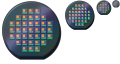
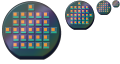
CALC-ICONES-A : corrections de la critique independante (verdict PRESQUE)
Laser refait autour du cristal (prisme hexagonal cyan a 3 facettes, emetteur court) :
il ne se lit plus comme une seringue. SRAM : cache pose en retrait sur la base, avec
ombre portee et vias d'or (il debordait). Tranche : puces plus grandes, lisibles a
32 px. Radiateur : plus haut, degrade et brossage sur les ailettes. Resine plus ambre,
halo de l'helium-3 resserre. --check 10 icones 0 ecart ; harnais 0 violation.
Critique : fo-logs/2026-10-30_DESIGN-CALCUL/CALC-ICONES-A/CRITIQUE.md

diff --git a/tools/render/pieces/calcul/dessins.py b/tools/render/pieces/calcul/dessins.py
@@ -170,9 +170,12 @@ def icone_puce_dram():
 # Puce SRAM : cache EMPILÉ (deux puces), pavage violet 4 x 4
 # ------------------------------------------------------------------------------------------------------------------
 def icone_puce_sram():
+    # Critique du 30/10 : la puce du dessus DÉBORDAIT de la base (à gauche et en haut) : deux cartes qui se chevauchent,
+    # la base se lisait comme une équerre violette. Le cache est maintenant POSÉ sur la base, en retrait de ses bords,
+    # et y jette son ombre (lumière du nord-ouest) ; la base montre des vias d'or (liaisons du cache empilé), pas du violet.
     t = Toile()
-    bx0, by0, bx1, by1 = 16.0, 19.0, 61.0, 62.0      # puce de base
-    hx0, hy0, hx1, hy1 = 11.0, 13.0, 47.0, 49.0      # cache empilé (posé sur la base)
+    bx0, by0, bx1, by1 = 10.0, 17.0, 61.0, 63.0      # puce de base
+    hx0, hy0, hx1, hy1 = 14.5, 22.5, 48.5, 56.5      # cache empilé (posé sur la base, en retrait)
 
     def fb(x, y):
         return sd_boite(x, y, bx0, by0, bx1, by1, 1.2)
@@ -181,11 +184,19 @@ def icone_puce_sram():
         s = surface_silicium(xl, yl, 17)
         biseau(s, sd)
         anneau_scellement(s, xl, yl, bx0, by0, bx1, by1)
-        bloc_fonction(s, xl, yl, bx1 - 11.0, by0 + 3.2, bx1 - 3.2, by1 - 3.2, "sram", rayures(1.0, 0.4, "y"),
-                      graine=60, lueur=0.22)
-        bloc_fonction(s, xl, yl, bx0 + 3.2, by1 - 10.5, bx1 - 13.0, by1 - 3.2, "sram", rayures(1.0, 0.4, "x"),
-                      graine=61, lueur=0.22)
-        plots(s, xl, yl, [(bx1 - 12.6, by0 + 4.2 + i * 3.6) for i in range(11)], cote=1.6, dh=0.35)
+        # vias d'or en grille (liaisons verticales vers le cache) sur la partie découverte, à droite et en bas
+        pl = []
+        for i in range(4):
+            for j in range(11):
+                pl.append((hx1 + 3.4 + i * 2.6, by0 + 4.0 + j * 3.6))
+        for i in range(8):
+            for j in range(2):
+                pl.append((bx0 + 4.0 + i * 3.6, hy1 + 2.8 + j * 2.6))
+        plots(s, xl, yl, pl, cote=1.3, dh=0.30)
+        # ombre portée du cache (au sud-est), douce
+        omb = ndimage.gaussian_filter(couv(sd_boite(xl, yl, hx0 + 2.2, hy0 + 2.4, hx1 + 2.2, hy1 + 2.4, 1.2)), 0.9 * U)
+        s.alb = s.alb * (1 - 0.70 * omb)[..., None]
+        s.H -= 0.9 * omb
         return s
 
     def fh(x, y):
@@ -235,9 +246,10 @@ def icone_tranche_gravee():
         return np.maximum(sd_cercle(x, y, cx, cy, r), y - meplat)
 
     def dessus(xl, yl, sd):
-        s = surface_silicium(xl, yl, 23, film=1.0)
+        # Critique du 30/10 : puces de 5,5 px, bruit à 32 px ; pas de 7,6 (environ 40 puces), bord nu plus irisé.
+        s = surface_silicium(xl, yl, 23, film=1.7)
         biseau(s, sd, 0.6, 1.0)
-        pas, rue = 6.3, 0.8
+        pas, rue = 7.6, 1.0
         dies = None
         n = int(2 * r / pas) + 2
         for i in range(-n, n + 1):
@@ -246,17 +258,17 @@ def icone_tranche_gravee():
                 b0 = cy - pas / 2 + j * pas + rue / 2
                 a1, b1 = a0 + pas - rue, b0 + pas - rue
                 coins = [(a0, b0), (a1, b0), (a0, b1), (a1, b1)]
-                if all(math.hypot(px - cx, py - cy) < r - 2.4 and py < meplat - 2.0 for px, py in coins):
+                if all(math.hypot(px - cx, py - cy) < r - 1.5 and py < meplat - 1.5 for px, py in coins):
                     d = sd_boite(xl, yl, a0, b0, a1, b1, 0.3)
                     dies = d if dies is None else np.minimum(dies, d)
         a = couv(dies)
         s.poser(a, P.mat("silicium_clair"), dh=0.30, prof=profil(dies, 0.5))
-        s.alb = s.alb + irise(xl, yl, 2.4, 29) * a[..., None]
+        s.alb = s.alb + irise(xl, yl, 3.0, 29) * a[..., None]
         loc_x = np.mod(xl - (cx - pas / 2 + rue / 2), pas)
         loc_y = np.mod(yl - (cy - pas / 2 + rue / 2), pas)
         # chaque puce : un cœur ambre (la puce logique à venir) et une bande de mémoire vert d'eau
-        coeur = ((np.abs(loc_x - 1.9) < 1.1) & (np.abs(loc_y - 1.9) < 1.1)).astype(float) * a
-        mem = ((np.abs(loc_x - 2.75) < 2.0) & (np.abs(loc_y - 4.25) < 0.55)).astype(float) * a
+        coeur = ((np.abs(loc_x - 2.4) < 1.5) & (np.abs(loc_y - 2.4) < 1.5)).astype(float) * a
+        mem = ((np.abs(loc_x - 3.3) < 2.4) & (np.abs(loc_y - 5.3) < 0.7)).astype(float) * a
         s.poser(coeur, dict(rgb=P.lin("logique.moyen"), rough=0.2, met=0.3), dh=0.08)
         s.lueur(coeur, P.lin("logique.moyen"), 0.30)
         s.poser(mem, dict(rgb=P.lin("dram.moyen"), rough=0.2, met=0.3), dh=0.05)
@@ -332,11 +344,14 @@ def icone_photomasque():
 # Laser à cristal : tube en diagonale (âge 10), bobines de cuivre, cristal hexagonal, faisceau
 # ------------------------------------------------------------------------------------------------------------------
 def icone_laser():
+    # Critique du 30/10 : le premier dessin (tube long et fin, rayures de cuivre, petite pointe presque blanche) se lisait
+    # comme un stylo, une seringue ou une pile. Le CRISTAL devient l'élément dominant : gros prisme hexagonal cyan à 3
+    # facettes franches (claire, cyan, sombre), tenu par un collier de chrome à griffes sur un émetteur court de l'âge 10
+    # (carénage gris, bobines de cuivre, voyant bleu), faisceau à la pointe.
     t = Toile()
-    ax, ay, bx, by = 6.5, 58.0, 44.0, 20.5
-    L = math.hypot(bx - ax, by - ay)
-    ux, uy = (bx - ax) / L, (by - ay) / L
-    vx, vy = uy, -ux
+    ax, ay = 13.0, 52.0
+    ux, uy = math.sqrt(0.5), -math.sqrt(0.5)
+    vx, vy = uy, -ux                      # v > 0 : côté nord-ouest (éclairé)
     u = (X - ax) * ux + (Y - ay) * uy
     v = (X - ax) * vx + (Y - ay) * vy
 
@@ -346,71 +361,74 @@ def icone_laser():
     def cyl(r):
         return np.sqrt(np.clip(r * r - v * v, 0, None))
 
-    vox, voy = ax + ux * 28.0 + vx * 4.4, ay + uy * 28.0 + vy * 4.4
-    pieces = [(0.0, 6.0, 10.6, "noir_mat", "ailettes"), (6.0, 31.0, 9.8, "carenage", "corps"),
-              (31.0, 35.0, 11.2, "chrome", "bague"), (35.0, 39.5, 8.4, "noir_mat", None)]
+    # émetteur : culot noir mat, corps de carénage à 2 bobines de cuivre, collier de chrome
+    vox, voy = ax + ux * 9.0 + vx * 7.4, ay + uy * 9.0 + vy * 7.4
+    pieces = [(-4.0, 0.0, 11.4, "noir_mat", "culot"), (0.0, 13.0, 12.0, "carenage", "corps"),
+              (13.0, 17.0, 13.6, "chrome", "bague")]
     for (u0, u1, r, nom, det) in pieces:
         sd = troncon(u0, u1, r)
         s = Surface(P.mat(nom))
         s.H = cyl(r) * 0.6
         biseau(s, np.maximum(u0 - u, u - u1), 0.5, 0.8)
-        if det == "ailettes":
-            rid = (np.abs(np.mod(u, 1.5) - 0.75) < 0.42).astype(float)
-            s.H += 0.7 * rid
-            s.alb = s.alb * (1 - 0.3 * (1 - rid))[..., None]
+        if det == "culot":
+            rid = (np.abs(np.mod(v, 2.2) - 1.1) < 0.55).astype(float)
+            s.H += 0.5 * rid
         if det == "bague":
             s.H += 0.4 * np.cos(2 * math.pi * (u - u0) / (u1 - u0) - math.pi) + 0.4
         if det == "corps":
-            for (c0, c1) in ((9.0, 13.5), (15.5, 20.0)):
+            for (c0, c1) in ((1.2, 4.6), (6.2, 9.6)):
                 a = couv(np.maximum(c0 - u, u - c1)) * couv(np.abs(v) - r - 0.6)
                 fil = 0.5 + 0.5 * np.cos(2 * math.pi * u / 0.85)
                 s.poser(a, P.mat("cuivre"), dh=0.8)
                 s.H += 0.3 * a * fil
                 s.alb = s.alb * (1 - 0.40 * (a * (1 - fil))[..., None])
-            a = couv(np.maximum(22.5 - u, u - 25.0))
-            s.poser(a, P.mat("noir_mat"), dh=-0.25)
-            vo = sd_cercle(X, Y, vox, voy, 1.5)
+            vo = sd_cercle(X, Y, vox, voy, 1.4)
             s.poser(couv(vo), P.mat("voyant"), dh=0.4)
             s.lueur(couv(vo), np.asarray(P.lin("10.lumiere")) * 1.0 + 0.5, 1.6)
-            j = couv(np.abs(v + 3.0) - 0.2) * couv(np.maximum(6.5 - u, u - 8.5))
+            j = couv(np.abs(v + 4.5) - 0.2) * couv(np.maximum(10.2 - u, u - 12.6))
             s.alb = s.alb * (1 - 0.5 * j[..., None])
         t.relief(sd, s)
         if det == "corps":
-            hal = np.exp(-(np.clip(sd_cercle(X, Y, vox, voy, 1.5), 0, None) / 1.5) ** 2)
+            hal = np.exp(-(np.clip(sd_cercle(X, Y, vox, voy, 1.4), 0, None) / 1.5) ** 2)
             t.lueur_libre(np.asarray(P.lin("10.lumiere")) * 0.6, hal * 0.5)
-    # cristal hexagonal (prisme à 3 facettes visibles, pointe pyramidale courte), lumière intérieure
-    u0, u1, rc = 38.0, 47.0, 7.6
-    pointe = np.maximum(u - u1, 0) * 2.4
-    sd = np.maximum(np.maximum(u0 - u, u - u1 - 3.2), np.abs(v) - rc + pointe)
-    s = Surface(P.mat("cristal"))
-    fac = np.clip(np.abs(v) - rc * 0.45, 0, None)
-    s.H = np.clip(rc * 0.9 - fac * 1.8 - pointe * 1.2, 0, None)
-    s.tref = P.lin("cristal_coeur")
-    s.lueur(couv(sd), P.lin("cristal"), 0.42)
-    arete = couv(np.abs(np.abs(v) - rc * 0.45) - 0.28) * couv(sd + 0.6)
-    s.lueur(arete, P.lin("cristal_coeur"), 0.55)
-    base_tip = couv(np.abs(u - u1) - 0.25) * couv(sd + 0.5)
-    s.lueur(base_tip, P.lin("cristal_coeur"), 0.35)
-    coeur = couv(np.maximum(np.abs(v) - 2.0, np.maximum(u0 + 1.5 - u, u - u1 - 1.5)))
-    s.lueur(coeur, P.lin("cristal_coeur"), 1.0)
-    t.relief(sd, s, reflet=1.4)
-    # trois griffes de chrome qui tiennent le cristal
-    for vv in (-rc - 0.4, rc + 0.4, 0.0):
-        if vv == 0.0:
-            continue
-        d_ = np.maximum(np.maximum(u0 - 1.0 - u, u - u0 - 3.6), np.abs(v - vv) - 1.3)
+    # cristal : prisme hexagonal vu de côté (3 facettes : claire au nord-ouest, cyan au milieu, sombre au sud-est)
+    u0, u1, rc, kp = 15.5, 30.0, 10.4, 1.7
+    pointe = np.maximum(u - u1, 0) * kp
+    sd = np.maximum(np.maximum(u0 - u, u - u1 - rc / kp + 2.2), np.abs(v) - rc + pointe)
+    s = Surface(P.mat("cristal", rough=0.08))
+    cy_ = np.asarray(P.lin("cristal"))
+    lim = rc * 0.42 - pointe * 0.42
+    claire = np.clip((v - lim) * U / 2 + 0.5, 0, 1)
+    sombre = np.clip((-v - lim) * U / 2 + 0.5, 0, 1)
+    s.alb = M.melange(s.alb, cy_ * 1.6 + 0.10, claire)
+    s.alb = M.melange(s.alb, cy_ * np.array([0.06, 0.22, 0.50]), sombre)
+    s.H = np.clip(rc * 0.4 - pointe * 0.6, 0, None)
+    s.tref = P.lin("cristal")
+    # inclusions et fêlures internes (le cristal n'est pas du verre uni)
+    nz = bruit(131, maille=3.0)
+    fel = couv(np.abs((u - 22.0) * 0.55 + v * 0.8) - 0.22) * couv(np.abs(v) - rc * 0.38) * couv(np.abs(u - 22.5) - 4.0)
+    s.lueur(couv(sd) * (1 - sombre), P.lin("cristal"), 0.28)
+    s.lueur(couv(sd) * sombre * np.clip((nz - 0.55) * 3, 0, 1), P.lin("cristal"), 0.35)
+    s.lueur(fel, P.lin("cristal_coeur"), 0.45)
+    arete = couv(np.abs(np.abs(v) - np.maximum(lim, 0)) - 0.32) * couv(sd + 0.6)
+    s.lueur(arete, P.lin("cristal_coeur"), 0.50)
+    t.relief(sd, s, reflet=0.6)
+    # griffes de chrome qui tiennent le cristal (sur les deux arêtes visibles)
+    for vv in (-rc + 0.6, rc - 0.6):
+        d_ = np.maximum(np.maximum(u0 - 0.5 - u, u - u0 - 6.0), np.abs(v - vv) - 1.5)
         g = Surface(P.mat("chrome"))
-        g.H = 1.2 * profil(d_, 0.8)
+        g.H = 1.4 * profil(d_, 0.8)
         t.relief(d_, g)
-    fx, fy = ax + ux * (u1 + 3.4), ay + uy * (u1 + 3.4)
-    d = sd_segment(X, Y, fx, fy, fx + ux * 16.0, fy + uy * 16.0, 0.0)
-    t.lueur_libre(np.asarray(P.lin("cristal_coeur")) * 1.4, np.exp(-(np.clip(d, 0, None) / 0.85) ** 2))
-    t.lueur_libre(np.asarray(P.lin("10.lumiere")), np.exp(-(np.clip(d, 0, None) / 2.8) ** 2) * 0.6)
-    # éclat à la sortie du cristal (étoile à 4 branches)
+    # faisceau et éclat à la pointe
+    tip = u1 + rc / kp - 2.2
+    fx, fy = ax + ux * tip, ay + uy * tip
+    d = sd_segment(X, Y, fx, fy, fx + ux * 12.0, fy + uy * 12.0, 0.0)
+    t.lueur_libre(np.asarray(P.lin("cristal_coeur")) * 1.4, np.exp(-(np.clip(d, 0, None) / 1.2) ** 2))
+    t.lueur_libre(np.asarray(P.lin("10.lumiere")), np.exp(-(np.clip(d, 0, None) / 3.0) ** 2) * 0.6)
     ec = np.hypot(X - fx, Y - fy)
-    croix = np.minimum(np.abs((X - fx) * ux + (Y - fy) * uy) * 0 + np.abs((X - fx) * vx + (Y - fy) * vy), 99)
-    t.lueur_libre(np.asarray(P.lin("cristal_coeur")) * 1.2, np.exp(-(ec / 2.2) ** 2))
-    t.lueur_libre(np.asarray(P.lin("10.lumiere")) * 0.8, np.exp(-(croix / 0.5) ** 2) * np.exp(-(ec / 6.0) ** 2) * 0.8)
+    croix = np.abs((X - fx) * vx + (Y - fy) * vy)
+    t.lueur_libre(np.asarray(P.lin("cristal_coeur")) * 1.2, np.exp(-(ec / 2.0) ** 2))
+    t.lueur_libre(np.asarray(P.lin("10.lumiere")) * 0.8, np.exp(-(croix / 0.5) ** 2) * np.exp(-(ec / 5.5) ** 2) * 0.8)
     t.contour()
     return t
 
@@ -421,15 +439,22 @@ def icone_laser():
 def icone_radiateur():
     t = Toile()
     v = M.Vue34(5.0, 60.5, kx=0.42, ky=0.50, kz=0.92)
-    X0, X1, Dp, zs, zf = 0.0, 45.0, 22.0, 5.5, 33.0
+    X0, X1, Dp, zs, zf = 0.0, 46.0, 24.0, 5.5, 38.0     # plus haut que la 1re version : remplit le cadre
     nf, ef = 7, 2.6
     pas = (X1 - X0 - ef) / (nf - 1)
     cu = P.lin("cuivre")
     al = P.lin("aluminium")
     stries = 0.90 + 0.12 * np.cos(2 * math.pi * Y / 0.8)
-    M.boite3d(t, v, X0, X1, 0.0, Dp, 0.0, zs, cu, haut=0.9, avant=0.70, est=0.42)
+    # Critique du 30/10 : faces unies, plates à côté du vanilla. Dégradé vertical (le haut des ailettes prend la lumière,
+    # le pied est dans l'ombre des voisines), brossage irrégulier, et reflet du cuivre qui court sur la semelle.
+    pied, tete = v.p(0, 0, zs)[1], v.p(0, 0, zf)[1]
+    grad = 0.62 + 0.55 * np.clip((pied - Y) / (pied - tete), 0, 1) ** 0.8
+    brosse = 1.0 + 0.16 * (bruit(141, maille=6.0) - 0.5)
+    ref_cu = 0.85 + 0.45 * np.exp(-((X - 0.55 * (60.5 - Y) - 14.0) / 5.0) ** 2)
+    M.boite3d(t, v, X0, X1, 0.0, Dp, 0.0, zs, cu, haut=0.9, avant=0.70, est=0.42,
+              tex=dict(avant=ref_cu, haut=ref_cu))
 
-    def caloduc(xa, xb, yy, zz=24.0, r=2.1):
+    def caloduc(xa, xb, yy, zz=27.0, r=2.1):
         (pax, pay), (pbx, pby) = v.p(xa, yy, zz), v.p(xb, yy, zz)
         sd = np.maximum(np.abs(Y - pay) - r, np.maximum(pax - X, X - pbx))
         s = Surface(P.mat("cuivre"))
@@ -438,12 +463,12 @@ def icone_radiateur():
 
     for i in range(nf):
         a0 = X0 + i * pas
-        M.boite3d(t, v, a0, a0 + ef, 1.0, Dp - 1.0, zs, zf, al, haut=1.15, avant=0.78, est=0.40,
-                  tex=dict(avant=stries, est=stries))
+        M.boite3d(t, v, a0, a0 + ef, 1.0, Dp - 1.0, zs, zf, al, haut=1.25, avant=0.80, est=0.42,
+                  tex=dict(avant=stries * grad * brosse, est=stries * grad ** 1.4 * brosse))
         if i < nf - 1:
-            for yy in (15.0, 7.0):
+            for yy in (16.5, 7.5):
                 caloduc(a0 + ef, a0 + pas, yy)
-    for yy in (15.0, 7.0):
+    for yy in (16.5, 7.5):
         caloduc(X1, X1 + 2.8, yy)
     t.contour()
     return t
@@ -507,23 +532,24 @@ def icone_resine():
         return s
 
     t.dalle(f, 0.0, 2.4, P.mat("silicium_bord"), dessus)
-    cx, cy, r = 32.0, 27.5, 12.5
-    sd = goutte_sd(cx, cy, r, 25.0)
-    s = Surface(P.mat("resine"))
+    cx, cy, r = 32.0, 28.5, 13.6
+    sd = goutte_sd(cx, cy, r, 27.0)
+    s = Surface(P.mat("resine", rough=0.14))
+    s.tref = P.lin("resine")
     # distance intérieure EXACTE (la réunion cercle + pointe n'est pas un vrai champ de distance dedans)
     dd = ndimage.distance_transform_edt(sd < 0) / U
     dd = ndimage.gaussian_filter(dd, 0.6 * U)
     s.H = np.sqrt(dd * (2 * r - np.minimum(dd, r))) * 0.85
     a = couv(sd)
     bord = 1.0 - profil(sd, 4.0)
-    s.alb = M.melange(s.alb, P.lin("resine_sombre"), bord * a * 0.7)
+    s.alb = M.melange(s.alb, P.lin("resine_sombre"), bord * a * 0.85)
     # la lumière traverse la résine : le bas de la goutte s'allume (côté opposé à la lumière)
     trans = np.clip((Y - (cy - 4.0)) / (r + 4.0), 0, 1) * np.clip((X - cx + 6.0) / 14.0, 0, 1)
-    s.lueur(a * trans * profil(sd, 3.0), np.array([1.0, 0.62, 0.16]), 0.55)
-    s.lueur(a, np.asarray(P.lin("resine")), 0.10)
-    t.relief(sd, s, reflet=1.3, pente=1.0)
+    s.lueur(a * trans * profil(sd, 3.0), np.array([1.0, 0.50, 0.08]), 0.75)
+    s.lueur(a, np.asarray(P.lin("resine")), 0.06)
+    t.relief(sd, s, reflet=0.8, pente=1.0)
     # reflet net de la fenêtre (haut gauche)
-    hl = M.sd_ellipse(X, Y, cx - 5.0, cy - 5.5, 2.2, 3.6)
+    hl = M.sd_ellipse(X, Y, cx - 5.5, cy - 5.5, 2.0, 3.4)
     t.lueur_libre(np.array([1.0, 0.95, 0.85]), couv(hl) * 0.8)
     t.contour()
     return t
@@ -543,7 +569,7 @@ def icone_helium3():
         yr = -(X - cx) * st + (Y - cy) * ct
         e = np.abs(np.hypot(xr / a, yr / b) - 1.0) * b
         cote = ((yr > 0) if devant else (yr <= 0)).astype(float)
-        return couv(e - 0.75) * cote, np.exp(-(e / 1.9) ** 2) * cote
+        return couv(e - 0.85) * cote, np.exp(-(e / 1.5) ** 2) * cote
 
     def electron(theta, a, b, phi):
         ct, st = math.cos(theta), math.sin(theta)
@@ -553,7 +579,7 @@ def icone_helium3():
     plasma = np.asarray(P.lin("plasma"))
     for (th, a, b) in orbites:
         a_, halo = orbite(th, a, b, False)
-        t.lueur_libre(plasma * 0.5, halo * 0.5)
+        t.lueur_libre(plasma * 0.5, halo * 0.28)
         t.poser(np.zeros((M.N, M.N, 3)) + plasma * 0.75, a_ * 0.95)
     nucl = [(37.0, 25.0, 9.4, "helium3_neutron"), (26.0, 32.5, 9.8, "helium3_proton"),
             (38.5, 39.5, 9.8, "helium3_proton")]
@@ -566,7 +592,7 @@ def icone_helium3():
         t.relief(sd, s, pente=1.0)
     for k, (th, a, b) in enumerate(orbites):
         a_, halo = orbite(th, a, b, True)
-        t.lueur_libre(plasma * 0.5, halo * 0.5)
+        t.lueur_libre(plasma * 0.5, halo * 0.30)
         t.poser(np.zeros((M.N, M.N, 3)) + plasma * 1.15, a_)
         exx, eyy = electron(th, a, b, math.radians(55 if k == 0 else 205))
         d = sd_cercle(X, Y, exx, eyy, 2.4)
